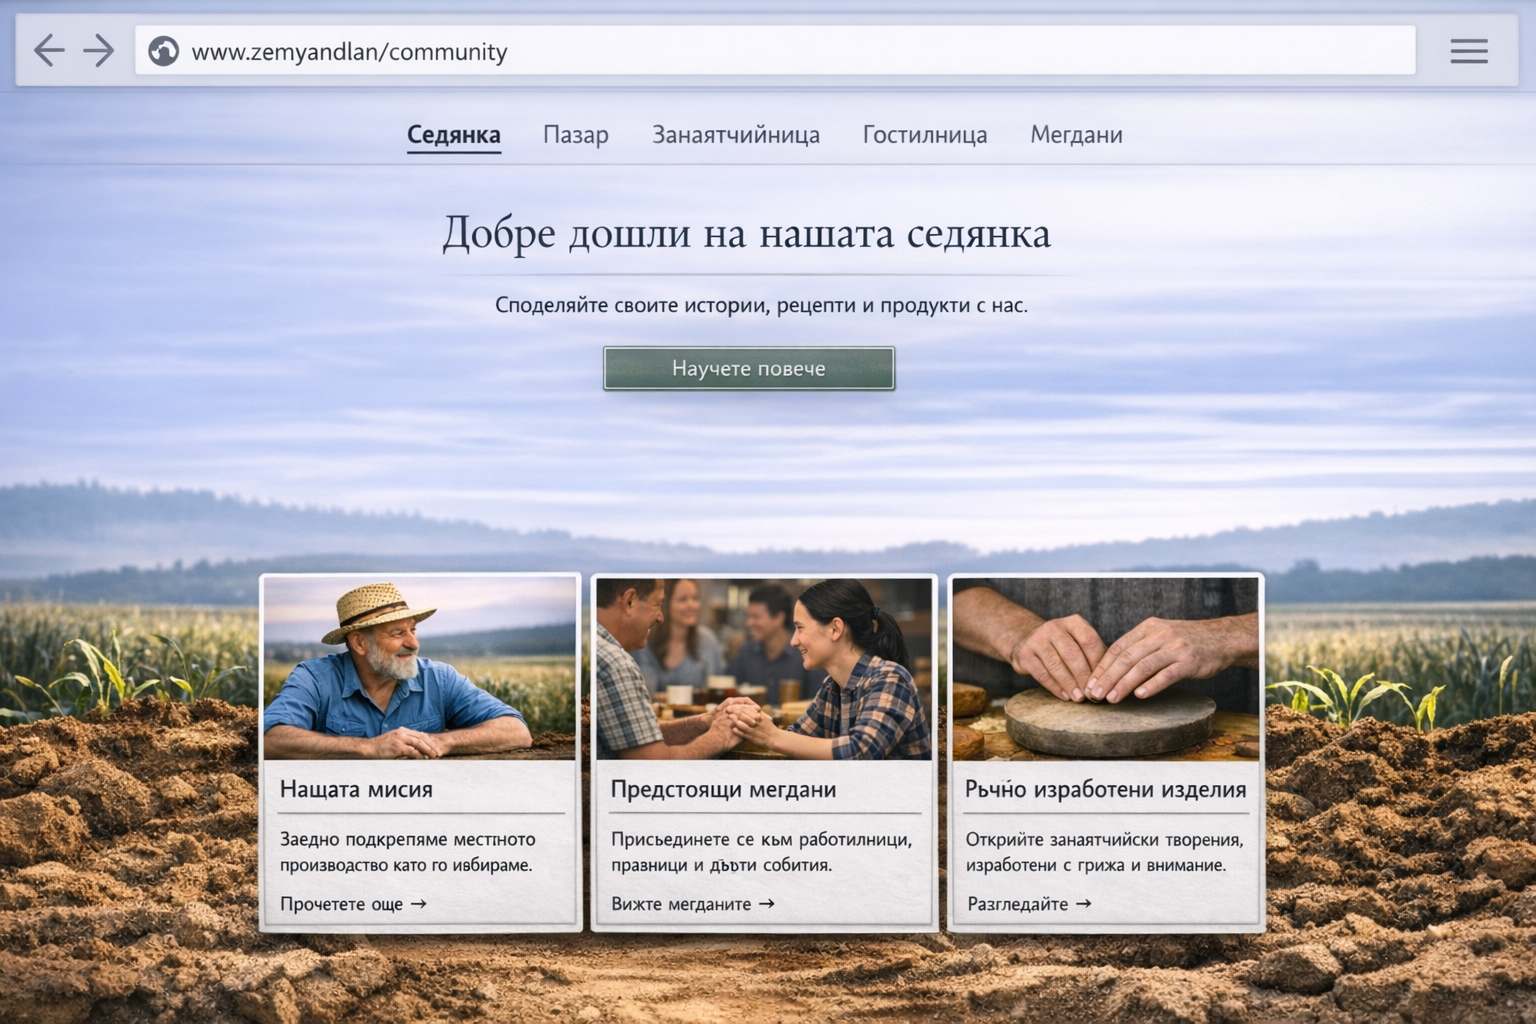
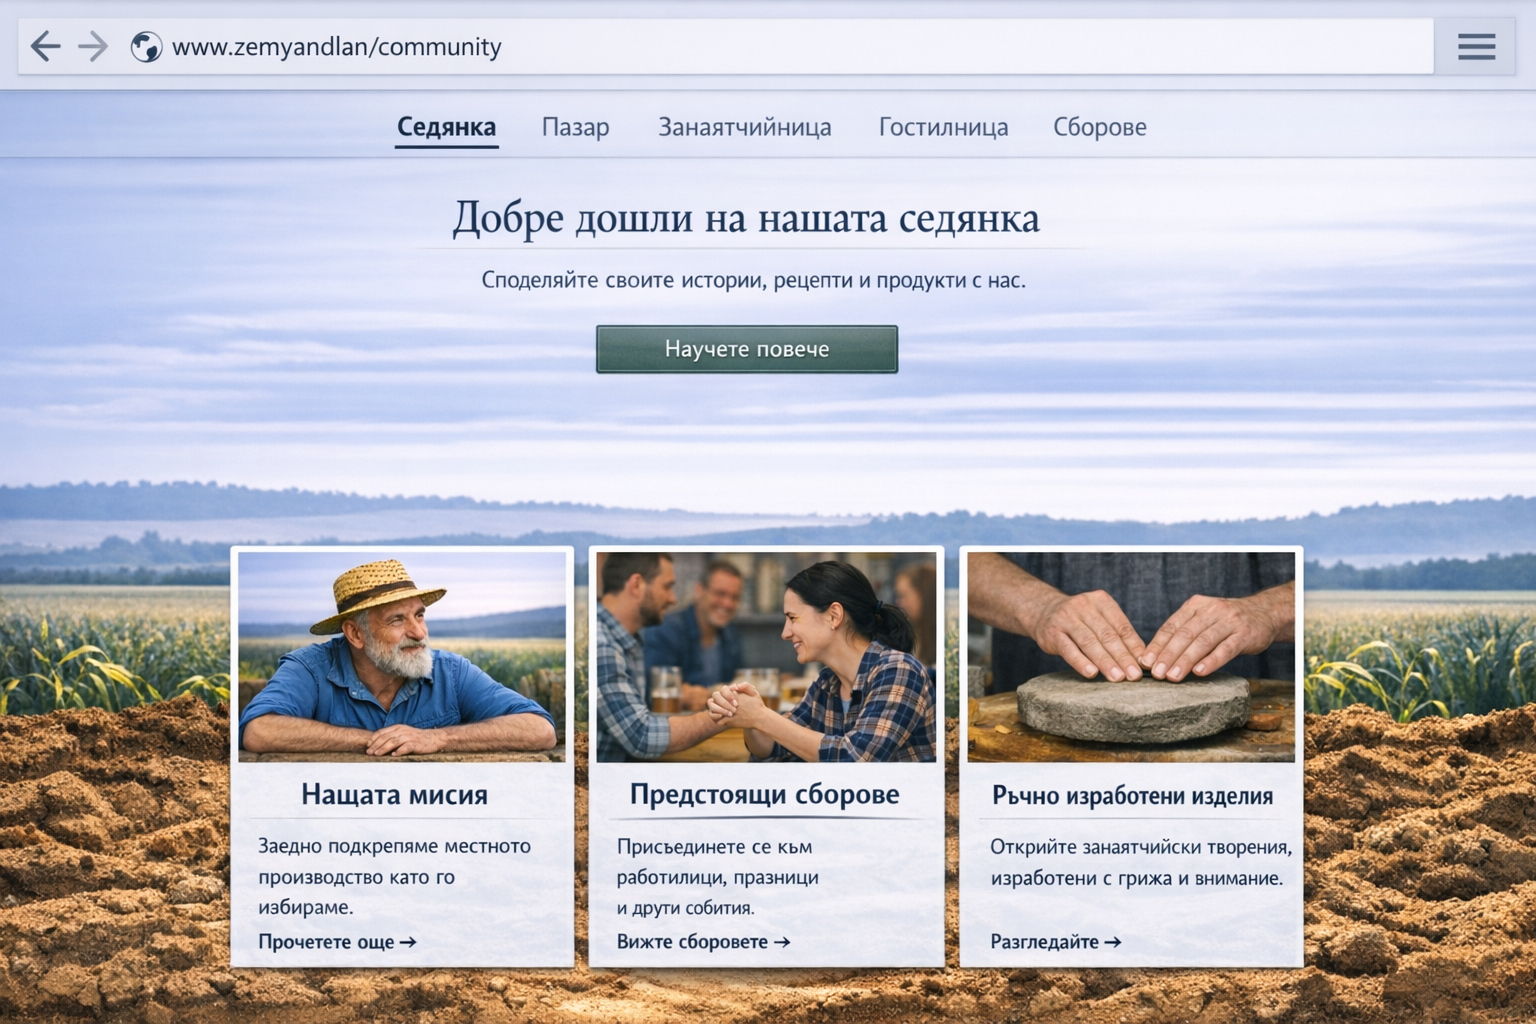
finish CRUD for Community

diff --git a/src/main/java/bg/zemyanadlan/services/CommunityPostService.java b/src/main/java/bg/zemyanadlan/services/CommunityPostService.java
@@ -1,10 +1,9 @@
 package bg.zemyanadlan.services;
 
 import bg.zemyanadlan.dtos.CreateCommunityPostRequestDto;
-import bg.zemyanadlan.entities.Comment;
-import bg.zemyanadlan.entities.CommunityPost;
-import bg.zemyanadlan.entities.PostType;
-import bg.zemyanadlan.entities.User;
+import bg.zemyanadlan.dtos.UpdateCommentRequestDto;
+import bg.zemyanadlan.dtos.UpdateCommunityPostRequestDto;
+import bg.zemyanadlan.entities.*;
 import bg.zemyanadlan.exceptions.ResourceNotFoundException;
 import bg.zemyanadlan.mappers.CommunityPostMapper;
 import bg.zemyanadlan.repositories.CommentRepository;
@@ -14,9 +13,11 @@ import org.springframework.data.domain.Page;
 import org.springframework.data.domain.Pageable;
 import org.springframework.stereotype.Service;
 import org.springframework.transaction.annotation.Transactional;
-
 import java.time.LocalDateTime;
+import java.util.HashSet;
 import java.util.List;
+import java.util.Set;
+
 
 /**
  * Service class for managing community posts.
@@ -29,6 +30,7 @@ public class CommunityPostService {
     private final CommunityPostMapper communityPostMapper;
     private final CategoryService categoryService;
 
+
     /**
      * Retrieves the community feed, optionally filtered by post type.
      *
@@ -40,8 +42,8 @@ public class CommunityPostService {
     public Page<CommunityPost> getCommunityFeed(
             PostType postType,
             Pageable pageable
-    ){
-        if (postType == null){
+    ) {
+        if (postType == null) {
             return postRepository.findAllByOrderByCreatedAtDesc(pageable);
         } else {
             return postRepository.findByPostTypeOrderByCreatedAtDesc(postType.name(), pageable);
@@ -55,7 +57,7 @@ public class CommunityPostService {
      * @return the retrieved post
      */
     @Transactional
-    public CommunityPost getPostAndIncrementViews(Long postId){
+    public CommunityPost getPostAndIncrementViews(Long postId) {
         CommunityPost post = postRepository.findById(postId)
                 .orElseThrow(() -> new ResourceNotFoundException("Post not found"));
         post.setViewsCount(post.getViewsCount() + 1);
@@ -63,22 +65,79 @@ public class CommunityPostService {
     }
 
     /**
-     * Retrieves the comments for a given post.
+     * Creates a new post.
      *
-     * @param post the post for which to retrieve comments
-     * @return a list of comments for the post
+     * @param request the request object containing post details
+     * @param user    the user creating the post
+     * @return the created post
      */
-    @Transactional(readOnly = true)
-    public List<Comment> getComments(CommunityPost post){
-        return commentRepository.findByPostOrderByCreatedAtAsc(post);
+    @Transactional
+    public CommunityPost createPost(
+            CreateCommunityPostRequestDto request,
+            User user
+    ) {
+        CommunityPost post = communityPostMapper.toEntity(request);
+
+        post.setUser(user);
+        post.setCreatedAt(LocalDateTime.now());
+        post.setPostType(request.getPostType().name());
+        post.setLikesCount(0);
+        post.setCommentsCount(0);
+        post.setViewsCount(0);
+        post.setCategories(categoryService.getCategoriesBySlugs(new java.util.HashSet<>(request.getCategorySlugs())));
+        return postRepository.save(post);
+    }
+
+    @Transactional
+    public CommunityPost updatePost(
+            Long postId,
+            UpdateCommunityPostRequestDto request,
+            User user
+    ) {
+        CommunityPost post = postRepository.findById(postId)
+                .orElseThrow(() -> new ResourceNotFoundException("Post not found"));
+
+        if (!post.getUser().getId().equals(user.getId())) {
+            throw new RuntimeException("You are not authorized to update this post");
+        }
+
+        if (request.getTitle() != null) {
+            post.setTitle(request.getTitle());
+        }
+        if (request.getContent() != null) {
+            post.setContent(request.getContent());
+        }
+        if (request.getPostType() != null) {
+            post.setPostType(request.getPostType().name());
+        }
+        if (request.getCategorySlugs() != null) {
+            Set<Category> categories = categoryService.getCategoriesBySlugs(new HashSet<>(request.getCategorySlugs()));
+            post.setCategories(categories);
+        }
+        return post;
+    }
+
+    @Transactional
+    public void deletePost(
+            Long postId,
+            User user
+    ) {
+        CommunityPost post = postRepository.findById(postId)
+                .orElseThrow(() -> new ResourceNotFoundException("Post not found"));
+
+        if (!post.getUser().getId().equals(user.getId())) {
+            throw new RuntimeException("You are not authorized to delete this post");
+        }
+
+        postRepository.delete(post);
     }
 
     /**
      * Adds a comment to a post.
      *
-     * @param postId the ID of the post to which to add the comment
+     * @param postId  the ID of the post to which to add the comment
      * @param content the content of the comment
-     * @param user the user adding the comment
+     * @param user    the user adding the comment
      * @return the added comment
      */
     @Transactional
@@ -86,7 +145,7 @@ public class CommunityPostService {
             Long postId,
             String content,
             User user
-    ){
+    ) {
         CommunityPost post = postRepository.findById(postId)
                 .orElseThrow(() -> new ResourceNotFoundException("Post not found"));
         Comment comment = new Comment();
@@ -102,26 +161,49 @@ public class CommunityPostService {
     }
 
     /**
-     * Creates a new post.
+     * Retrieves the comments for a given post.
      *
-     * @param request the request object containing post details
-     * @param user the user creating the post
-     * @return the created post
+     * @param post the post for which to retrieve comments
+     * @return a list of comments for the post
      */
-    @Transactional
-    public CommunityPost createPost(
-          CreateCommunityPostRequestDto request,
-          User user
-    ){
-        CommunityPost post = communityPostMapper.toEntity(request);
-
-        post.setUser(user);
-        post.setCreatedAt(LocalDateTime.now());
-        post.setPostType(request.getPostType().name());
-        post.setLikesCount(0);
-        post.setCommentsCount(0);
-        post.setViewsCount(0);
-        post.setCategories(categoryService.getCategoriesBySlugs(request.getCategorySlugs()));
-        return postRepository.save(post);
+    @Transactional(readOnly = true)
+    public List<Comment> getComments(CommunityPost post) {
+        return commentRepository.findByPostOrderByCreatedAtAsc(post);
     }
+
+    public void deleteComment(
+            Long commentId,
+            User user
+    ) {
+        Comment comment = commentRepository.findById(commentId).
+                orElseThrow(() -> new ResourceNotFoundException("Comment not found"));
+        boolean isPostOwner = comment.getPost().getUser().getId().equals(user.getId());
+        boolean isCommentOwner = comment.getUser().getId().equals(user.getId());
+
+        if (!isPostOwner && !isCommentOwner) {
+            throw new RuntimeException("You are not authorized to delete this comment");
+        }
+
+        CommunityPost post = comment.getPost();
+        commentRepository.delete(comment);
+        post.setCommentsCount(post.getCommentsCount() - 1);
+    }
+
+    @Transactional
+    public Comment updateComment(
+            Long commentId,
+            String content,
+            User user
+    ) {
+        Comment comment = commentRepository.findById(commentId).
+                orElseThrow(() -> new ResourceNotFoundException("Comment not found"));
+        if (!comment.getUser().getId().equals(user.getId())) {
+            throw new RuntimeException("You are not authorized to update this comment");
+        }
+        comment.setContent(content);
+        return comment;
+
+    }
+
 }
+

diff --git a/src/main/java/bg/zemyanadlan/controllers/CommunityPostController.java b/src/main/java/bg/zemyanadlan/controllers/CommunityPostController.java
@@ -100,6 +100,39 @@ public class CommunityPostController {
         return communityPostMapper.toFeedDto(post);
     }
 
+    @Operation(
+            summary = "Update a community post",
+            description = "Updates the content of an existing community post. " +
+                    "Only the author of the post can perform this action.")
+    @PutMapping("/{id}")
+    public CommunityPostFeedDto updatePost(
+            @Parameter(description = "Post ID")
+            @PathVariable Long id,
+            @Valid @RequestBody UpdateCommunityPostRequestDto request
+    ){
+        User user = userRepository.findTopByOrderByIdAsc()
+                .orElseThrow(() -> new RuntimeException("No users found in the database"));;
+        CommunityPost updatedPost = communityPostService.updatePost(id, request, user);
+        return communityPostMapper.toFeedDto(updatedPost);
+    }
+
+
+    @Operation(
+            summary = "Delete a community post",
+            description = "Deletes an existing community post. Only the author of the post can perform this action.")
+    @DeleteMapping("/{id}")
+    @ResponseStatus(HttpStatus.NO_CONTENT)
+
+    public void deletePost(
+            @Parameter(description = "Post ID")
+            @PathVariable Long id
+    ){
+        User user = userRepository.findTopByOrderByIdAsc()
+                .orElseThrow(() -> new RuntimeException("No users found in the database"));;
+        communityPostService.deletePost(id, user);
+    }
+
+
     /**
      * Adds a comment to a community post.
      * @param id the post ID
@@ -126,4 +159,33 @@ public class CommunityPostController {
         return commentMapper.toDto(comment);
     }
 
+    @Operation(
+            summary = "Delete a comment",
+            description = "Deletes an existing comment. " +
+                    "Only the author of the comment can perform this action.")
+    @DeleteMapping("/comments/{Id}")
+    @ResponseStatus(HttpStatus.NO_CONTENT)
+    public void deleteComment(
+            @Parameter(description = "Comment ID")
+            @PathVariable Long Id
+    ){
+        User user = userRepository.findTopByOrderByIdAsc()
+                .orElseThrow(() -> new RuntimeException("No users found in the database"));
+        communityPostService.deleteComment(Id, user);
+    }
+
+    @Operation(
+            summary = "Update a comment",
+            description = "Updates the content of an existing comment. " +
+                    "Only the author of the comment can perform this action.")
+    @PutMapping("/comments/{id}")
+    public CommentDto updateComment(
+            @PathVariable Long id,
+            @Valid @RequestBody UpdateCommentRequestDto request
+    ) {
+        User user = userRepository.findTopByOrderByIdAsc()
+                .orElseThrow(() -> new RuntimeException("No users found in the database"));
+        Comment comment = communityPostService.updateComment(id, request.getContent(), user);
+        return commentMapper.toDto(comment);
+    }
 }

diff --git a/src/main/java/bg/zemyanadlan/entities/CommunityPost.java b/src/main/java/bg/zemyanadlan/entities/CommunityPost.java
@@ -55,6 +55,14 @@ public class CommunityPost {
             inverseJoinColumns = @JoinColumn(name = "category_id"))
     private Set<Category> categories = new HashSet<>();
 
+
+    @OneToMany(
+            mappedBy = "post",
+            cascade = CascadeType.ALL,
+            orphanRemoval = true
+    )
+    private Set<Comment> comments = new HashSet<>();
+
     private int likesCount;
     private int commentsCount;
     private int viewsCount;

diff --git a/src/main/java/bg/zemyanadlan/dtos/UpdateCommunityPostRequestDto.java b/src/main/java/bg/zemyanadlan/dtos/UpdateCommunityPostRequestDto.java
@@ -1,0 +1,20 @@
+package bg.zemyanadlan.dtos;
+
+import bg.zemyanadlan.entities.PostType;
+import lombok.Data;
+import lombok.Getter;
+import lombok.Setter;
+
+import java.util.List;
+
+
+@Data
+public class UpdateCommunityPostRequestDto {
+
+    private String title;
+    private String content;
+    private String thumbnailUrl;
+    private PostType postType;
+    private List<String> categorySlugs;
+
+}

diff --git a/src/main/java/bg/zemyanadlan/repositories/CategoryRepository.java b/src/main/java/bg/zemyanadlan/repositories/CategoryRepository.java
@@ -4,8 +4,10 @@ import bg.zemyanadlan.entities.Category;
 import bg.zemyanadlan.entities.CategoryScope;
 import org.springframework.data.jpa.repository.JpaRepository;
 
+import java.util.Collection;
 import java.util.List;
 import java.util.Optional;
+import java.util.Set;
 
 public interface CategoryRepository extends JpaRepository<Category, Long> {
     Optional<Category> findBySlug(String slug);

diff --git a/src/main/java/bg/zemyanadlan/dtos/UpdateCommentRequestDto.java b/src/main/java/bg/zemyanadlan/dtos/UpdateCommentRequestDto.java
@@ -1,0 +1,11 @@
+package bg.zemyanadlan.dtos;
+
+import lombok.Getter;
+import lombok.Setter;
+
+@Getter
+@Setter
+public class UpdateCommentRequestDto {
+
+    private String content;
+}
